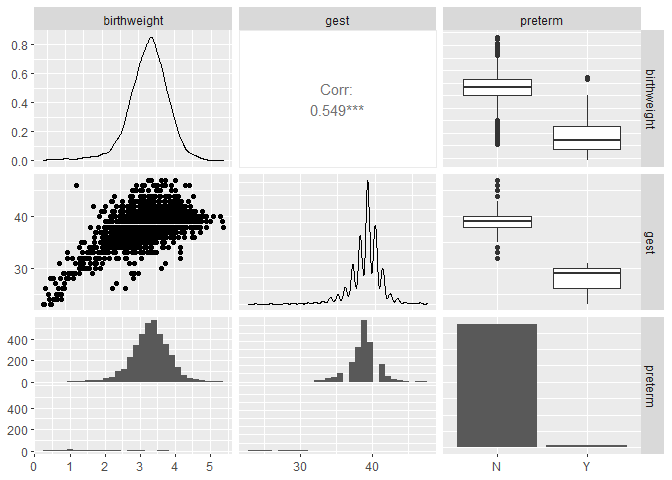
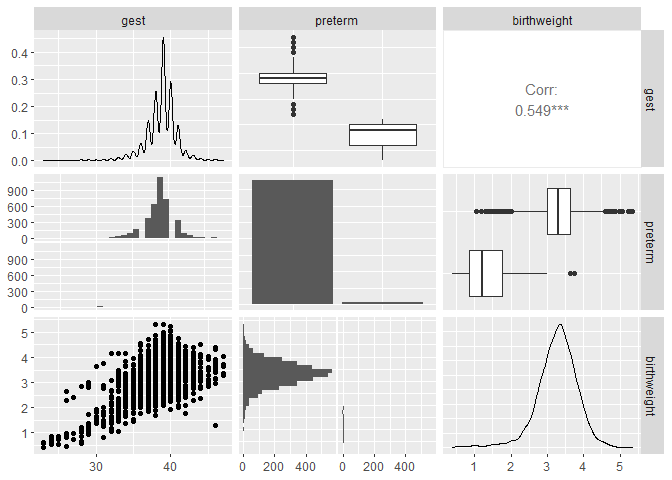
Test brms fitting

diff --git a/src/2022-02-21_visualizing-the-bayesian-workflow.md b/src/2022-02-21_visualizing-the-bayesian-workflow.md
@@ -6,11 +6,12 @@ Nayef Ahmad
 -   [1 Overview](#overview)
 -   [2 Libraries](#libraries)
 -   [3 Reading in data](#reading-in-data)
-    -   [3.1 Explanation of variables:](#explanation-of-variables)
+    -   [3.1 Explanation of variables](#explanation-of-variables)
 -   [4 EDA](#eda)
     -   [4.1 Log transformation](#log-transformation)
     -   [4.2 Interaction between gestational age and
         preterm](#interaction-between-gestational-age-and-preterm)
+-   [5 Running the models in `brms`](#running-the-models-in-brms)
 
 # 1 Overview
 
@@ -239,7 +240,7 @@ head(ds)
     ## 5    27         2     2  22.2 M        37        2.61 Y     N      
     ## 6    19         3     3  18.8 M        40        2.86 Y     N
 
-## 3.1 Explanation of variables:
+## 3.1 Explanation of variables
 
 1.  `gest` is gestational age in weeks. 40 weeks is considered normal.
 2.  `birthweight` is birth weight in kilograms (?).
@@ -284,11 +285,44 @@ ds %>%
 
 ## 4.2 Interaction between gestational age and preterm
 
+Interacting `gest` and `preterm` allows for the relationship between
+`birthweight` and `gest` to be different among levels of `preterm`.
+
+Recall that `preterm` was defined entirely based on `gest`, with no
+overlap in `gest` between `preterm = Y` and `preterm = N`. Therefore,
+including `preterm` in the model is a way of introducing a break point
+along `gest` in a principled way, using subject-matter expertise. In
+other words, this is *feature engineering*.
+
 ``` r
-ggpairs(ds[,c("birthweight", "gest", "preterm")])
+ggpairs(ds[,c("gest", "preterm", "birthweight")])
 ```
 
     ## `stat_bin()` using `bins = 30`. Pick better value with `binwidth`.
     ## `stat_bin()` using `bins = 30`. Pick better value with `binwidth`.
 
 ![](2022-02-21_visualizing-the-bayesian-workflow_files/figure-gfm/unnamed-chunk-5-1.png)<!-- -->
+
+``` r
+ds %>% 
+  ggplot(aes(x = log(gest), y = log(birthweight), 
+             col = preterm, 
+             group = preterm)) + 
+  geom_point(alpha = .5) + 
+  geom_smooth(method = "lm") + 
+  labs(title = "log(birthweight) vs log(gestational age)")
+```
+
+    ## `geom_smooth()` using formula 'y ~ x'
+
+![](2022-02-21_visualizing-the-bayesian-workflow_files/figure-gfm/unnamed-chunk-6-1.png)<!-- -->
+
+# 5 Running the models in `brms`
+
+``` r
+# mod1b <- brm(log(birthweight)~log(gest), data = ds)
+
+# pp_check(mod1b, type = "dens_overlay", nsamples = 100)
+
+# mod2b <- brm(log_weight~log_gest_c*preterm, data = ds)
+```
